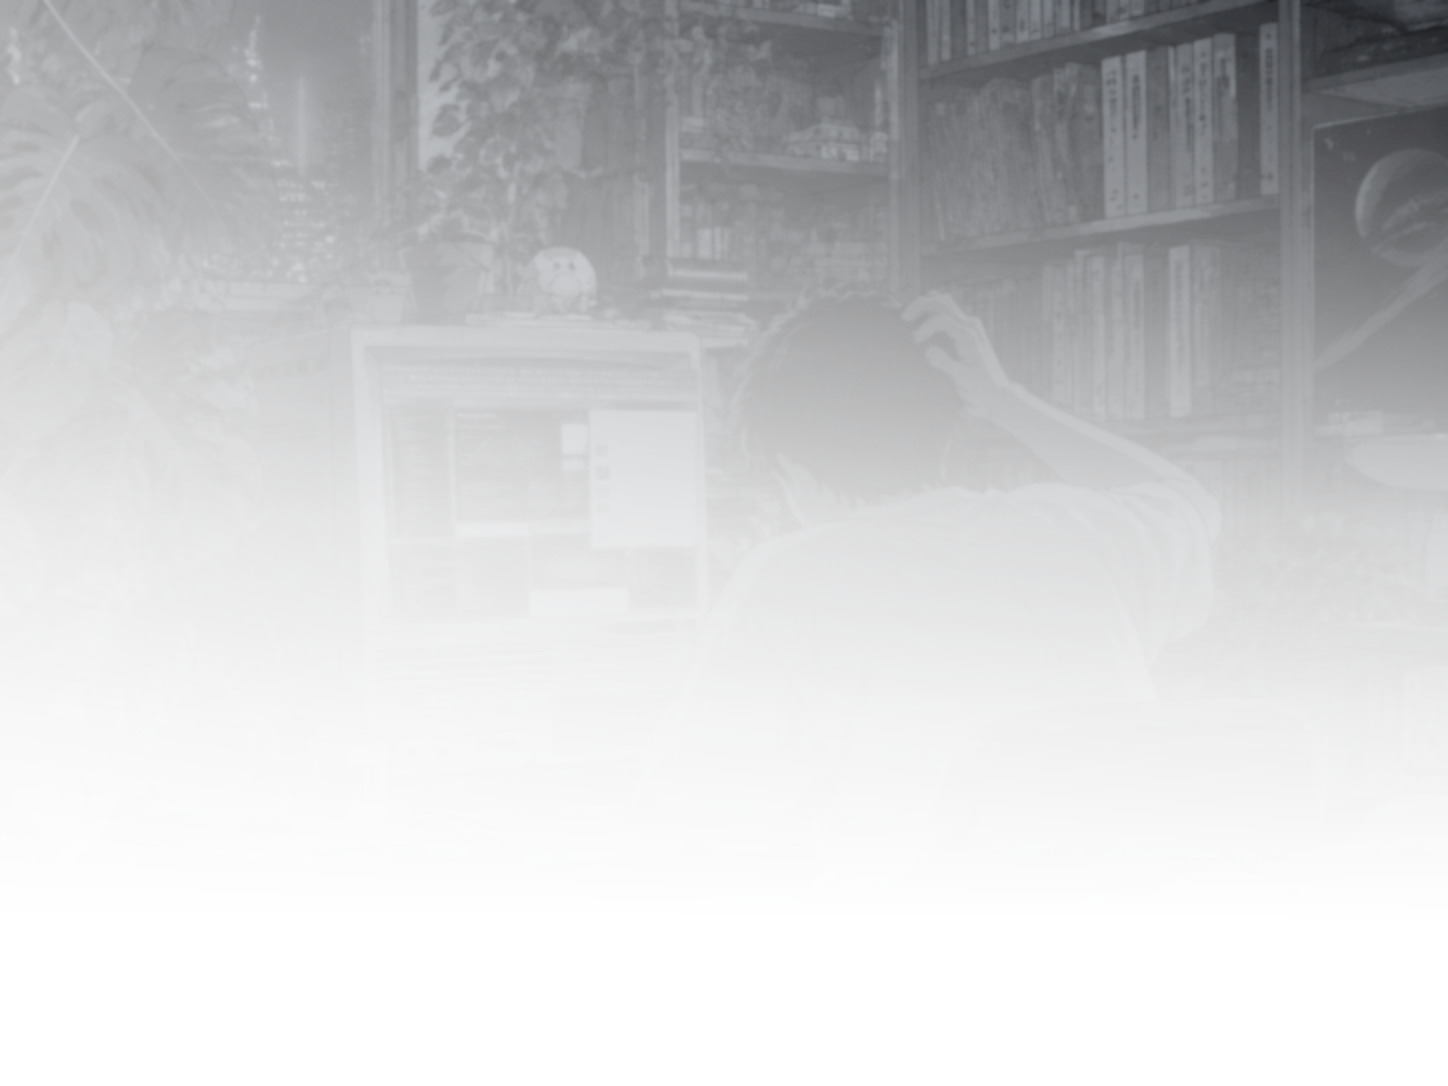
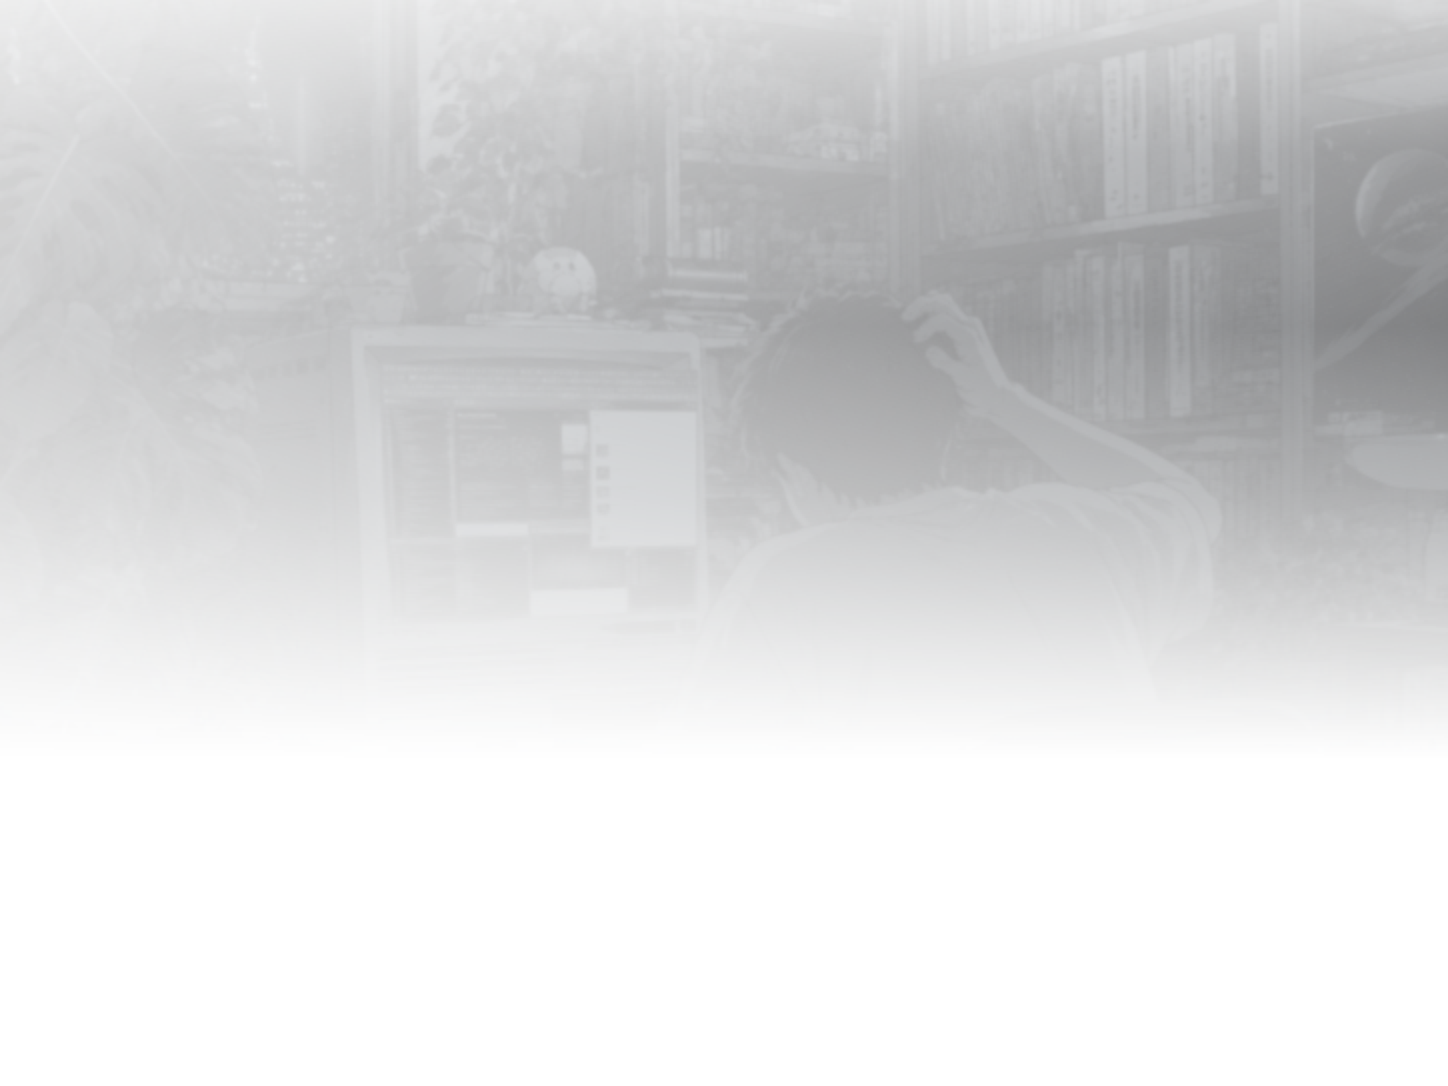
Move the shot's weight off the top edge and behind the headline
The alpha mask peaked at 1.00 at y=0, but nothing occupies that band -- the
kicker starts at 0.127 -- so the densest row of the photo was stacking
against the top edge of the viewport and reading as a slab across the top
rather than as a backdrop.

Starts at 0.20 and peaks at 0.54 around 0.30 instead, which is where the
headline actually is, and reaches zero by 0.70 so the subhead is left alone.
Levels window widened 150 -> 175 to keep the shot recessive.

Rendered peak luminance falls 101.5 -> 63.1 at the top edge and 101.9 ->
74.2 in the empty band above the kicker, and contrast improves rather than
degrades: kicker 5.51:1 -> 6.96:1, headline 9.16:1 -> 12.27:1, sub
7.41:1 -> 7.50:1, promise untouched. WebP 48KB -> 35KB.

Changed region(s): [[0.0, 0.0, 1.0, 0.2431], [0.9012, 0.4254, 1.0, 0.4862]]

diff --git a/scripts/make-hero-shot.py b/scripts/make-hero-shot.py
@@ -46,15 +46,24 @@ LIGHT_STOPS = [(0.00, 0x96, 0x9E, 0xA8),   # open: above the headline
                (0.60, 0x50, 0x56, 0x5C),
                (1.00, 0x50, 0x56, 0x5C)]
 
-# Vertical stops: (position in image, alpha). Fades to zero before the subhead,
-# which starts at 0.67 of the hero -- so everything below the headline is untouched.
-V_STOPS = [(0.00, 1.00), (0.16, 0.74), (0.32, 0.46), (0.48, 0.22), (0.66, 0.08), (0.85, 0.00), (1.00, 0.00)]
+# Vertical stops: (position in image, alpha).
+#
+# The mask deliberately does NOT peak at the top. The band from 0.00 to 0.12 is
+# empty -- the kicker starts at 0.127 -- so a peak there just stacks the shot's
+# densest row against the top edge of the viewport and reads as a slab. Starting
+# soft and peaking at 0.30 instead puts the photo's weight behind the headline,
+# which is the only place it has to compete with anything.
+#
+# Fades to zero by 0.70, so the subhead (0.667) and everything below it are
+# left essentially untouched.
+V_STOPS = [(0.00, 0.20), (0.14, 0.44), (0.30, 0.54), (0.46, 0.36), (0.60, 0.14), (0.70, 0.00), (1.00, 0.00)]
 
 # The shot is genuinely low-contrast (mean luminance 61, p95 113) and its top
 # region sits at only 44-60, so brightening the ramp alone barely registers.
-# Stretching the source's levels first is what actually makes it present:
-# top-of-frame peak composite goes 62 -> 92 with no change to the ramp.
-LEVELS = (10, 150)            # (black point, white point) applied to source luma
+# Stretching the source's levels first is what makes it register at all: the raw
+# top row is so dim that brightening the ramp alone barely moves it. The window
+# is kept modest (175, not 150) so the shot stays a backdrop rather than a slab.
+LEVELS = (10, 175)            # (black point, white point) applied to source luma
 H_RANGE = (0.40, 1.00)       # left -> right; the left edge carries the kicker (small
                           # mono text) and the head of the headline, so it stays quiet
 
